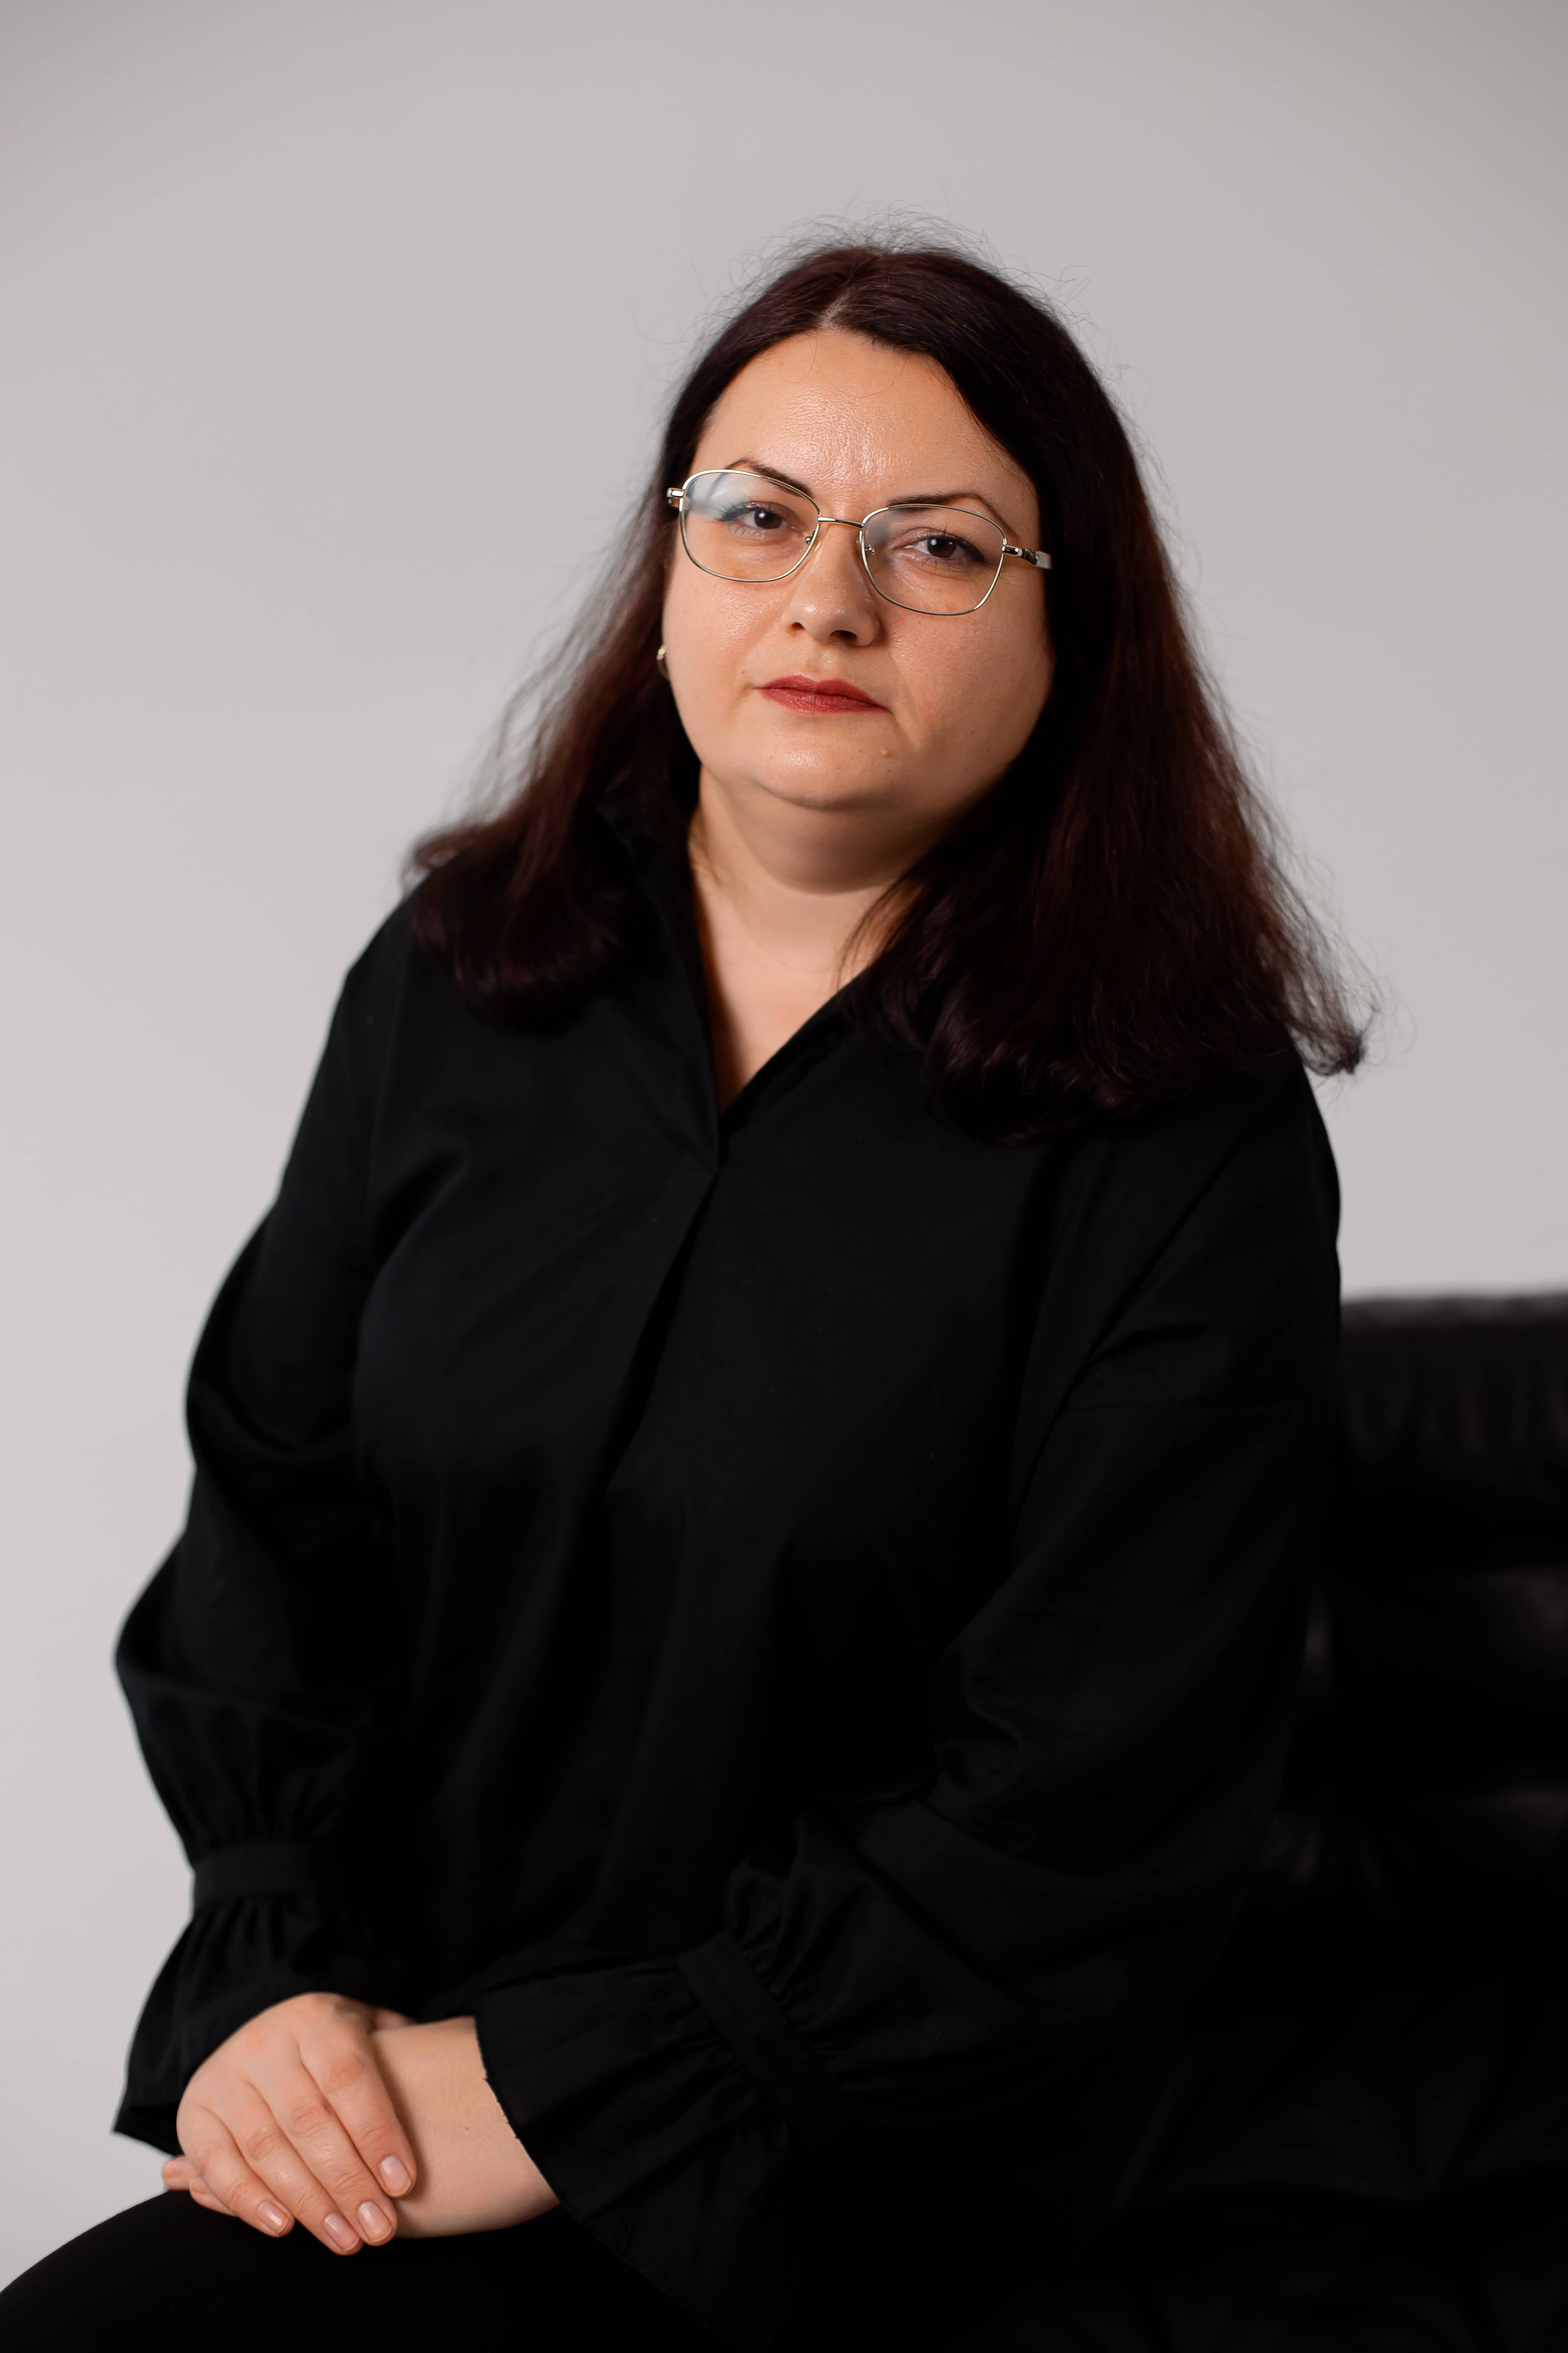
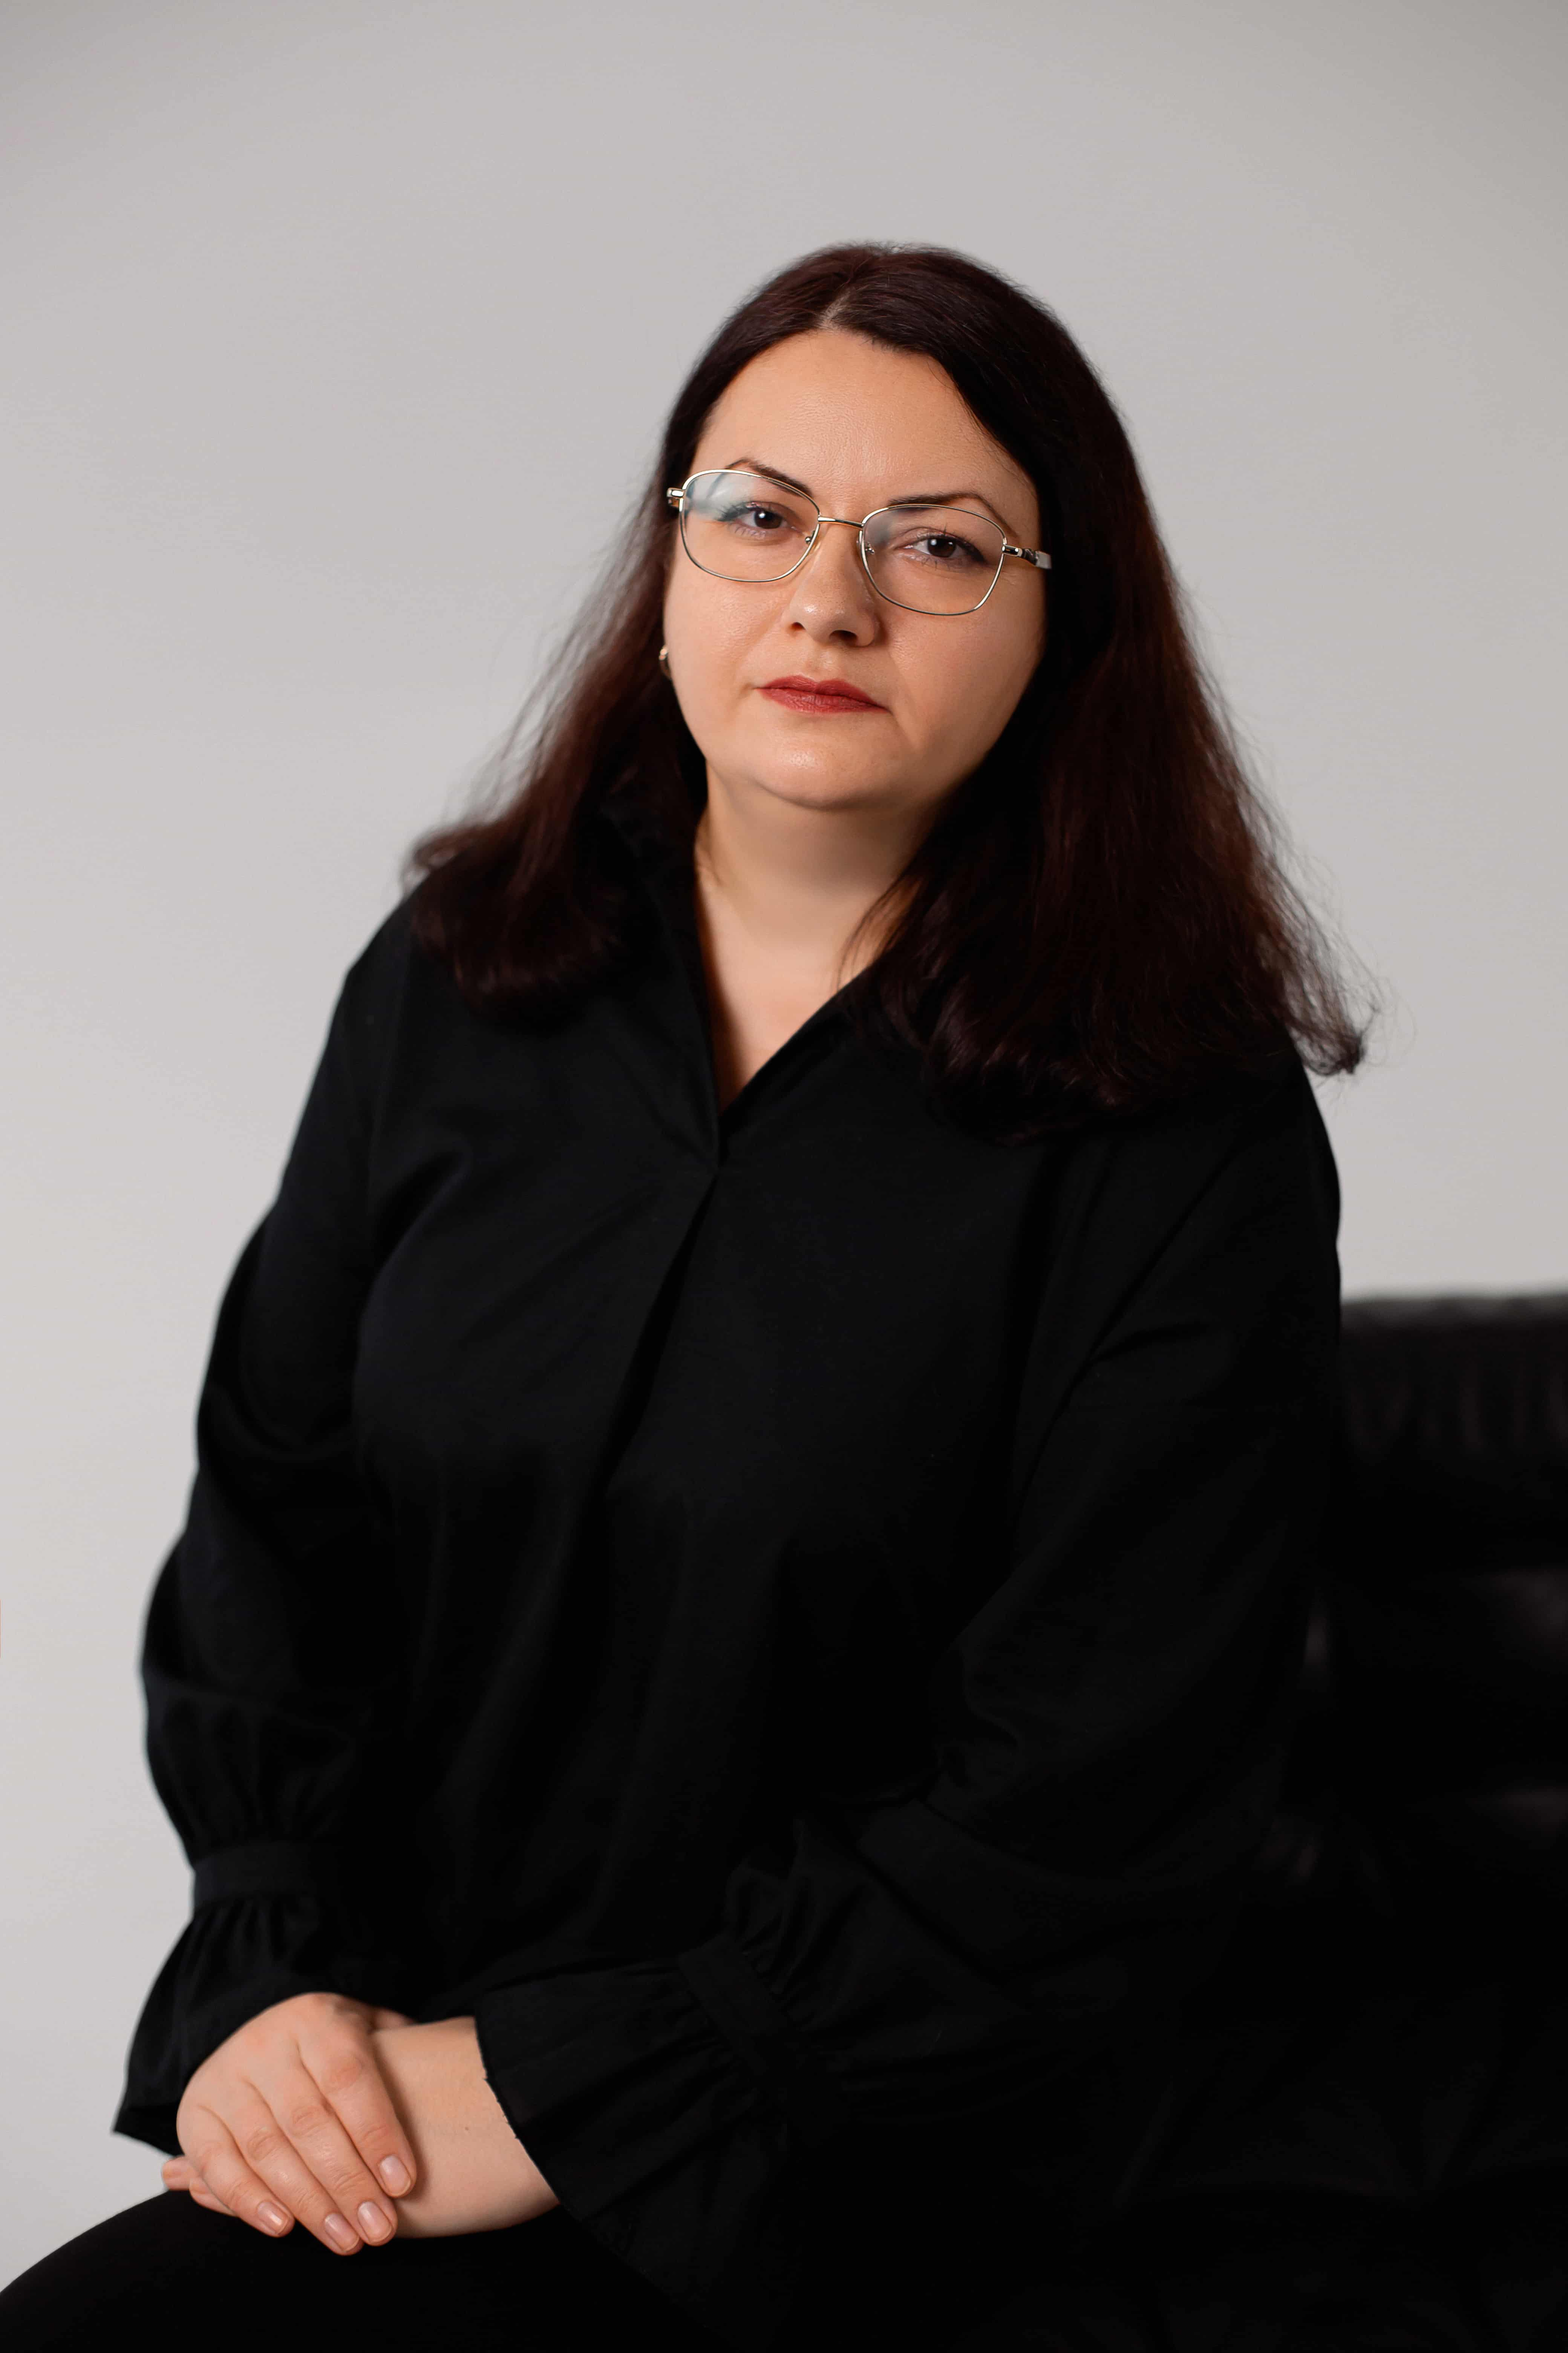
Updated team carusel imgs

diff --git a/src/components/sections/BenefitsSection/TeamCarousel.tsx b/src/components/sections/BenefitsSection/TeamCarousel.tsx
@@ -5,9 +5,9 @@ import { ChevronLeft, ChevronRight } from 'lucide-react'
 import Image from 'next/image'
 
 const carouselImages = [
-  '/assets/benefits-carusel-imgs/foto-212.webp',
+  '/assets/benefits-carusel-imgs/foto-212.jpg',
   '/assets/benefits-carusel-imgs/foto-123.jpg',
-  '/assets/benefits-carusel-imgs/foto-4.webp',
+  '/assets/benefits-carusel-imgs/foto-6.jpg',
   '/assets/benefits-carusel-imgs/foto-18.jpg',
   '/assets/benefits-carusel-imgs/foto-40.jpg',
   '/assets/benefits-carusel-imgs/foto-52.jpg',
